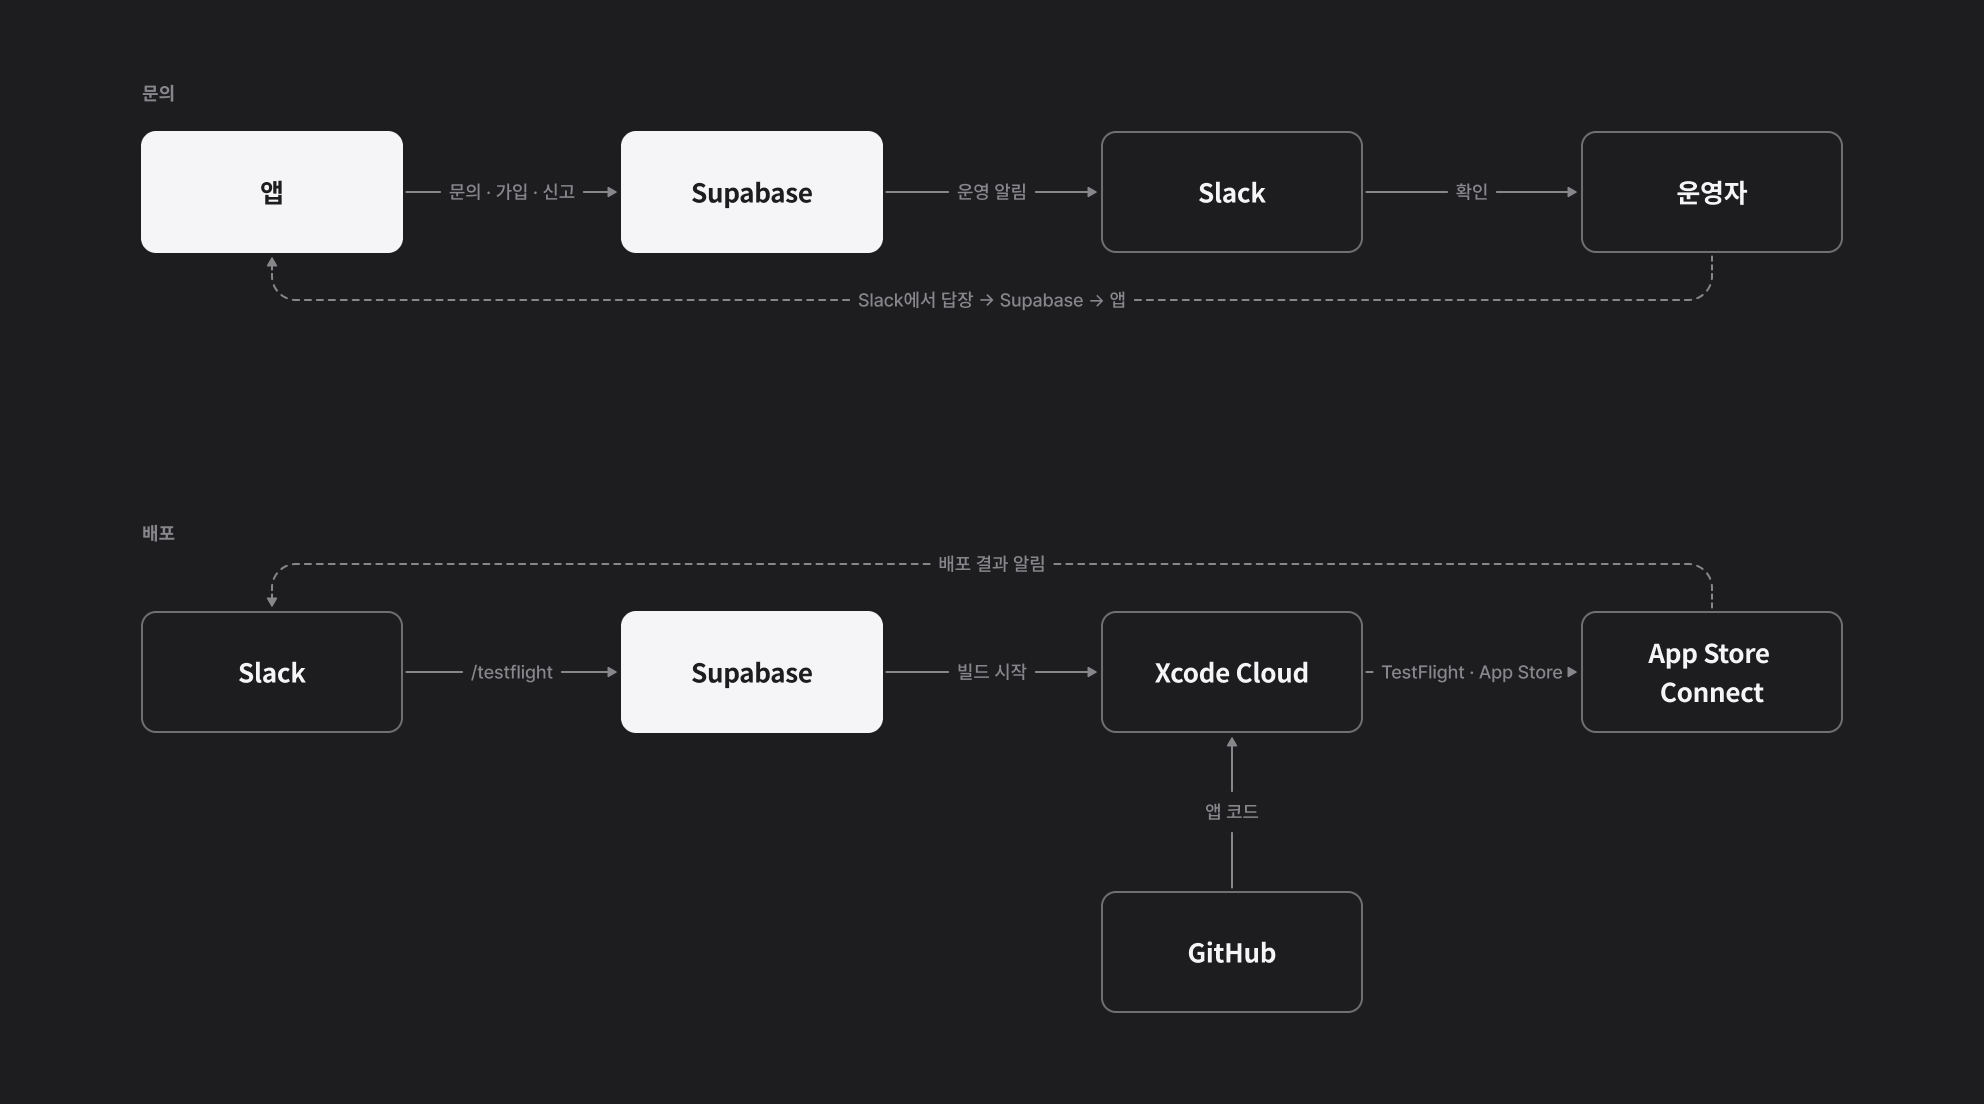
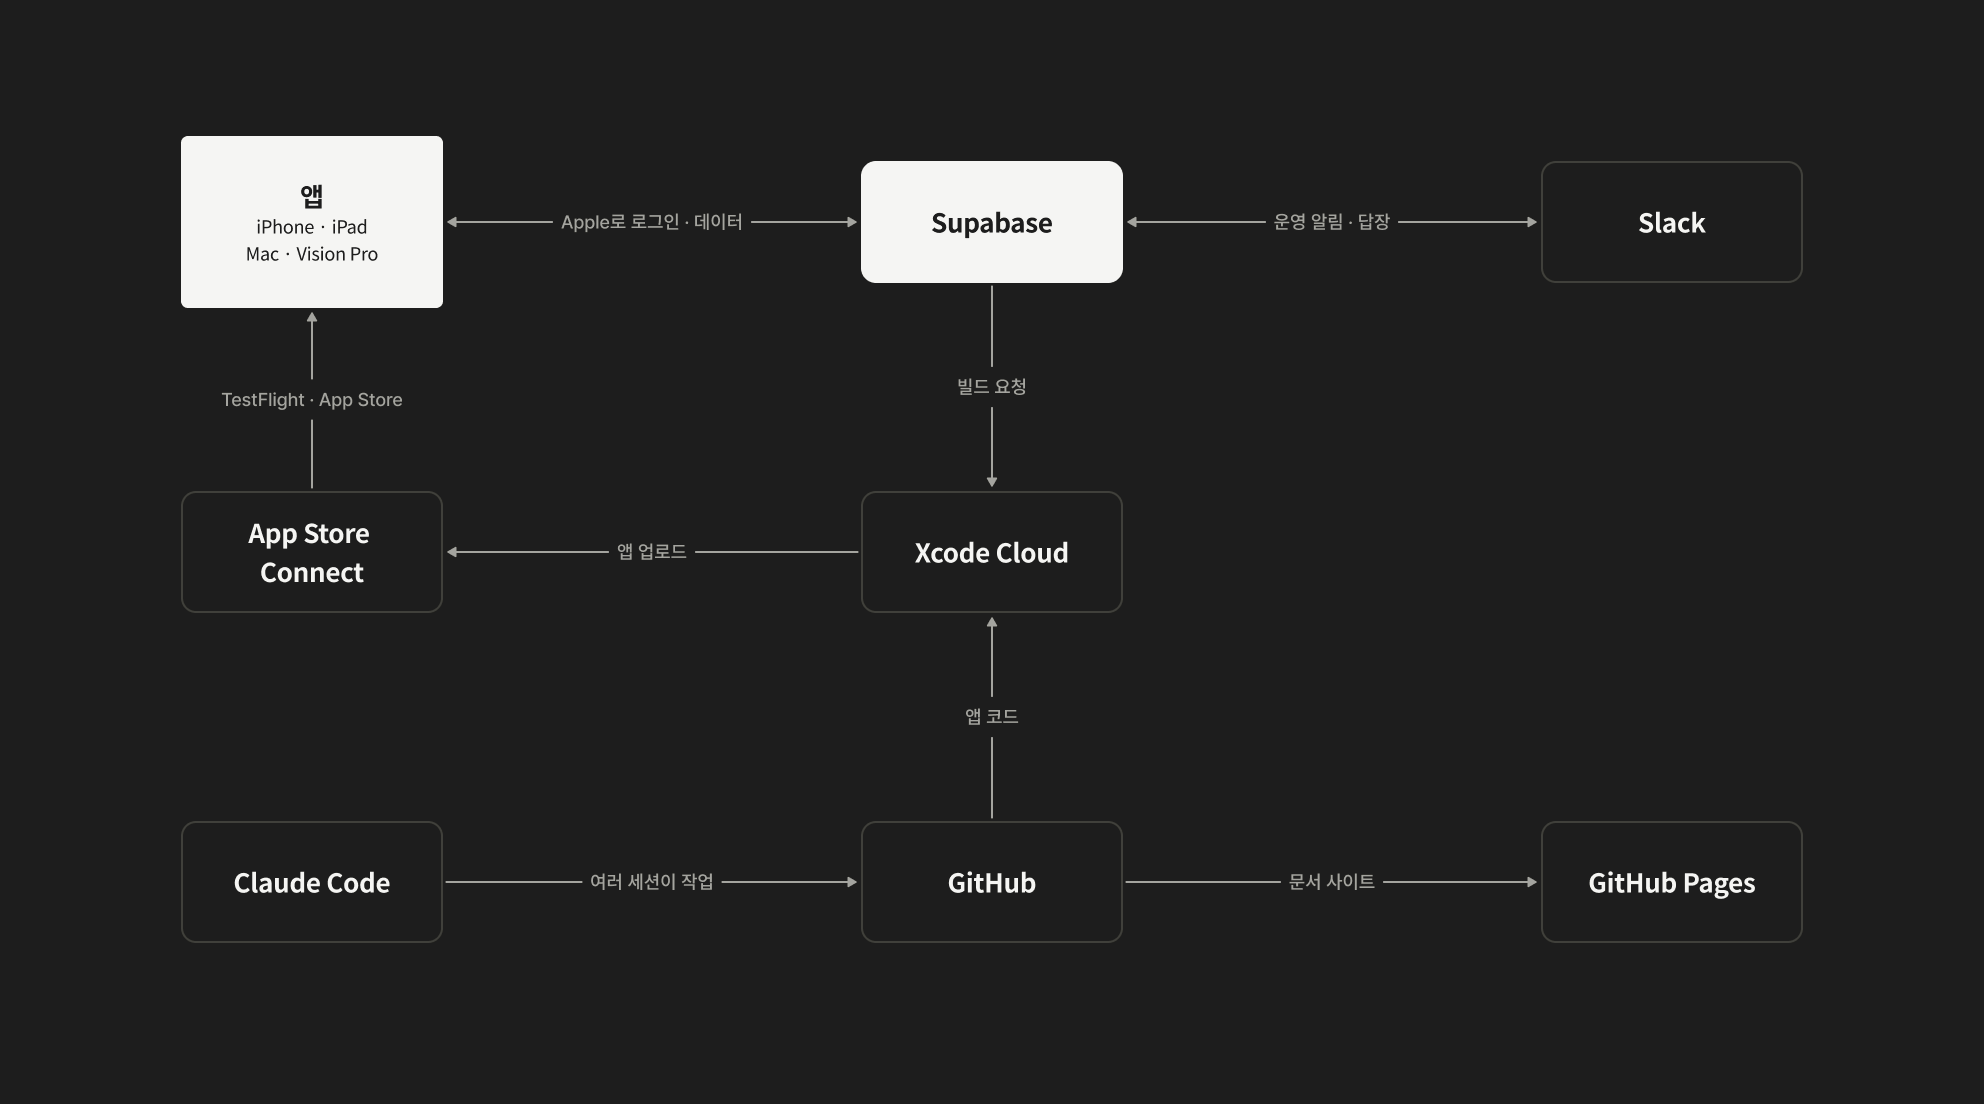
Restore the light and dark structure diagrams with the fixed dark file

diff --git a/src/content/blog/how-casebook-is-built.md b/src/content/blog/how-casebook-is-built.md
@@ -15,7 +15,8 @@ Casebook은 iPhone · iPad · Mac · Apple Vision Pro에서 돌아가는 추리 
 
 ## 전체 구조
 
-![앱, Supabase, Slack, Xcode Cloud, App Store Connect, GitHub, GitHub Pages, Claude Code의 관계도](../../assets/images/blog-diagram-1-structure.png)
+![앱, Supabase, Slack, Xcode Cloud, App Store Connect, GitHub, GitHub Pages, Claude Code의 관계도](../../assets/images/blog-diagram-1-structure-light.png)
+![앱, Supabase, Slack, Xcode Cloud, App Store Connect, GitHub, GitHub Pages, Claude Code의 관계도](../../assets/images/blog-diagram-1-structure-dark.png)
 
 | 구성 요소 | 맡은 일 |
 |---|---|
